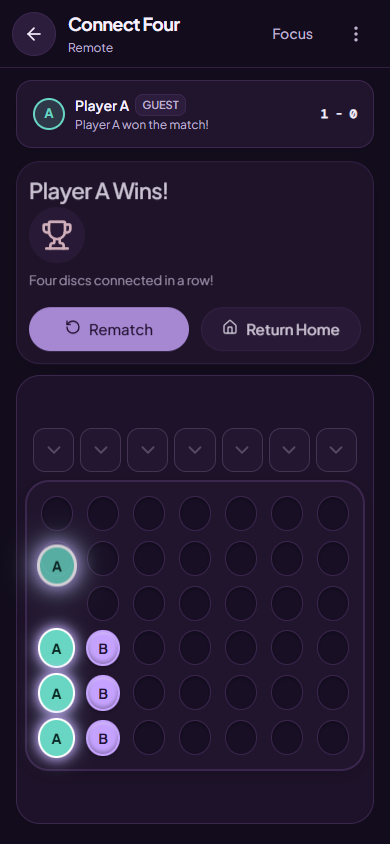
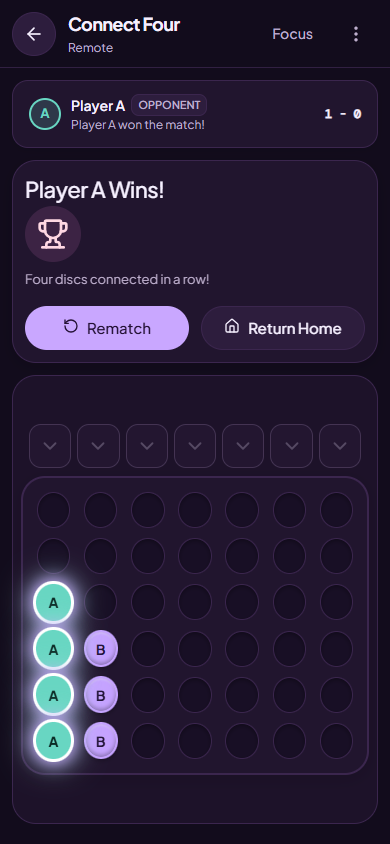
test(runtime): verify asset routing and settled LAN completion

diff --git a/planning/execution/reports/overnight-A02.md b/planning/execution/reports/overnight-A02.md
@@ -25,3 +25,6 @@
 ## Handoff and limits
 
 MatchDO and the additional sync/authority test leases are released for A05/A06. The lead owns final integration, the acceptance ledger, and VERIFIED status. Root’s localhost UI-only flow and the separate LAN HTTP check must not be conflated: no post-fix two-account LAN browser game or physical phone flow was run by A02. Production strictness was preserved by inspection/configuration, not by deployment testing.
+
+## Lead integration follow-up
+Lead added an entry guard rejecting retry while the same action is in-flight/reconciling, and a delayed HTTP response regression. Sync suite now passes 25 tests. Updated build, UI-only A/B Remote Connect Four without reload, offline lazy-route recovery, and actual exact-Origin LAN npm dev UI-only completion all pass. Evidence: tests/browser/overnight-remote.spec.ts, tests/browser/overnight-recovery.spec.ts, planning/review/evidence/overnight-lan-ui.json. The LAN run uses isolated state and browser emulation, not physical-phone certification. Product source integration commit ef4ca7c includes the released frontend/sync portion; MatchDO and the A05 backend integration are committed in 8fce4f2.
